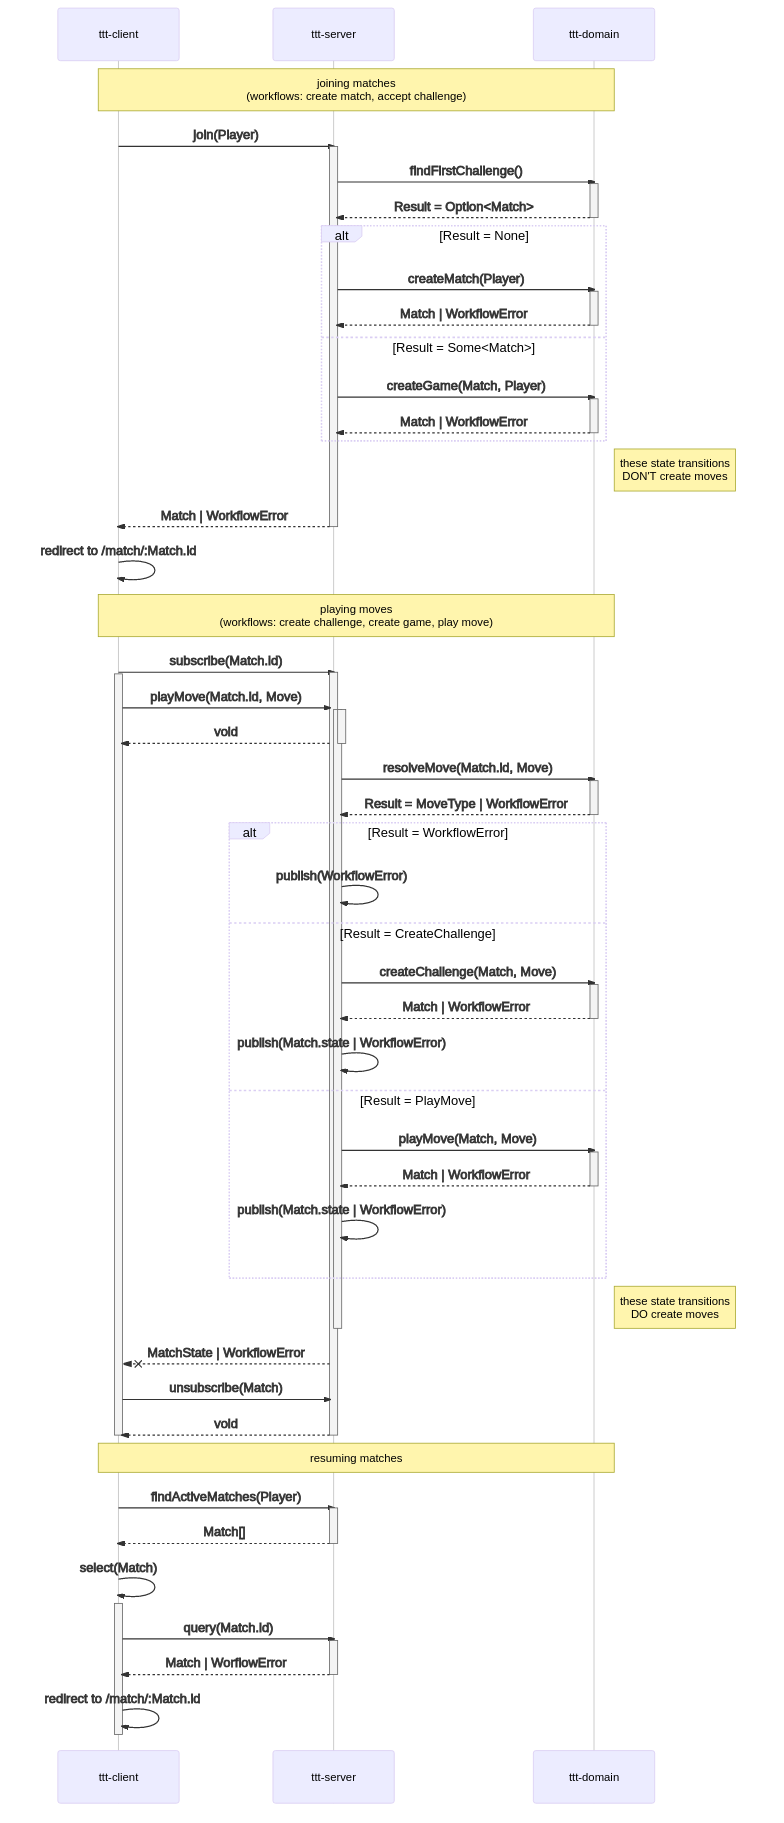
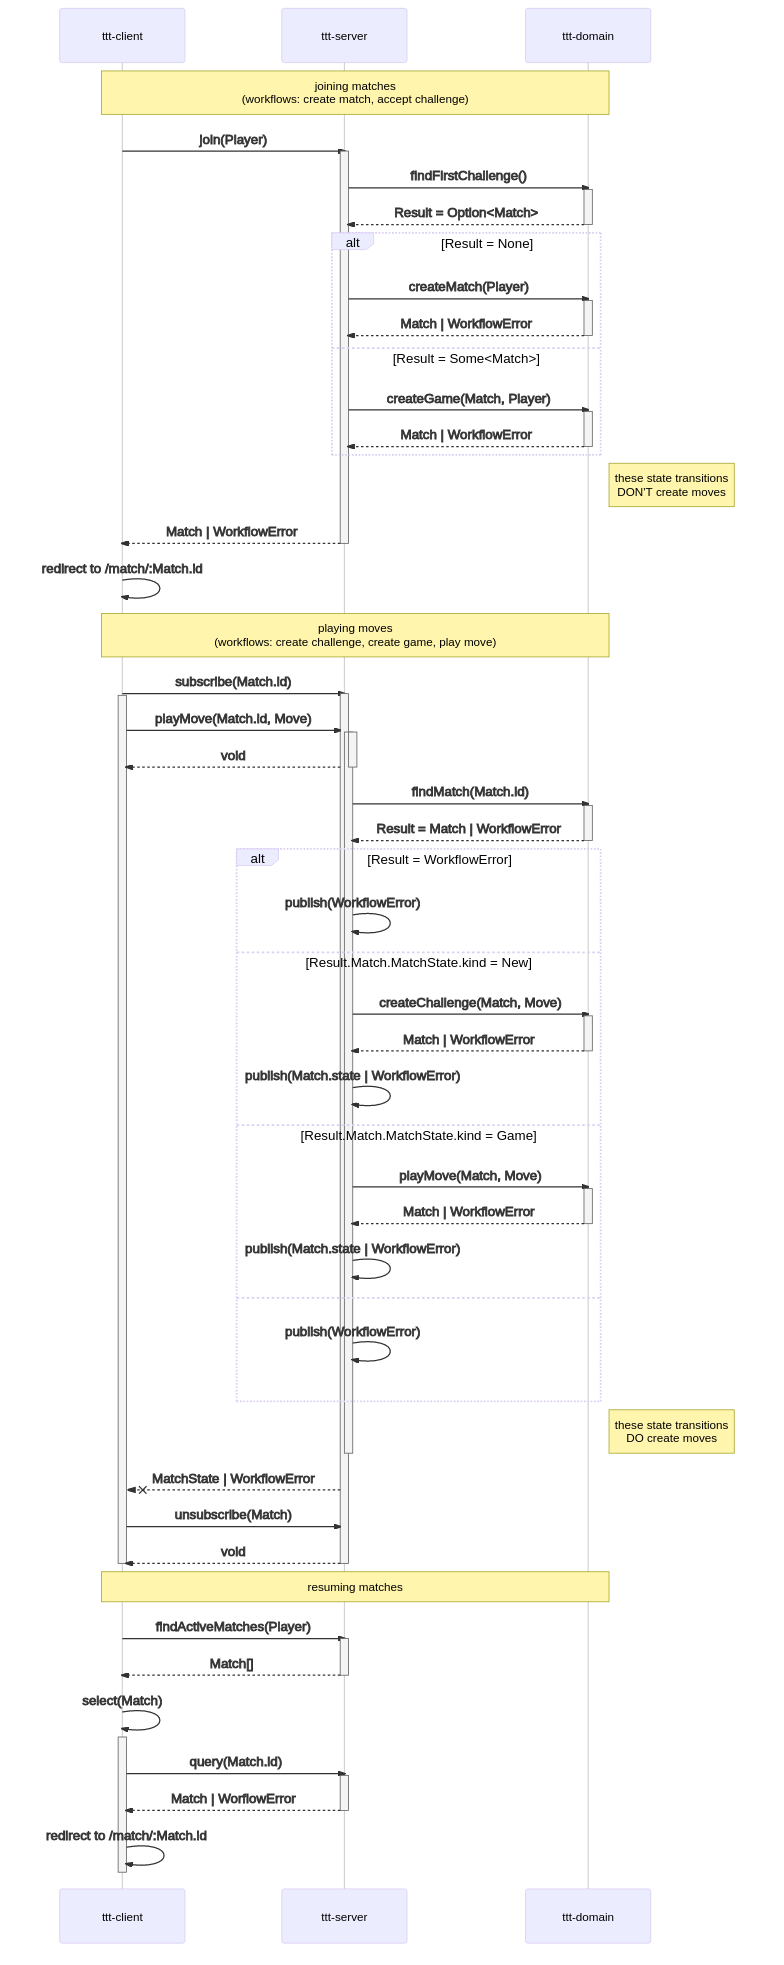
write play move command tests

Changed region(s): [[0.0612, 0.0, 0.949, 0.983], [0.398, 0.9523, 0.4592, 0.983], [0.3061, 0.4301, 0.3367, 0.4608]]

diff --git a/ttt-domain/src/command/play-move-command-handler.test.ts b/ttt-domain/src/command/play-move-command-handler.test.ts
@@ -1,0 +1,115 @@
+import { failure, Result, success } from "@grancalavera/ttt-etc/dist/result";
+import { DomainError, IllegalMatchStateError, MatchNotFoundError } from "../domain/error";
+import { Game, Match, MatchDescription } from "../domain/model";
+import {
+  alice,
+  bob,
+  CommandScenario,
+  matchId,
+  mockCommandDependencies,
+} from "../test/support";
+import { CreateChallenge, PlayMove, WorkflowInput } from "../workflow/support";
+import { playMoveCommandHandler } from "./play-move-command-handler";
+import { PlayMoveCommand } from "./support";
+
+const spyOnFindMatch = jest.fn();
+const mock = mockCommandDependencies({ spyOnFindMatch });
+const matchDescription: MatchDescription = { owner: alice, id: matchId };
+
+const newMatch: Match = {
+  matchDescription,
+  matchState: { kind: "New" },
+};
+
+const gameMatchState: Game = {
+  kind: "Game",
+  players: [alice, bob],
+  moves: [[alice, 0]],
+  next: bob,
+};
+
+const gameMatch: Match = {
+  matchDescription,
+  matchState: gameMatchState,
+};
+
+const challengeMatch: Match = {
+  matchDescription,
+  matchState: { kind: "Challenge", move: [alice, 0] },
+};
+
+const drawMatch: Match = {
+  matchDescription,
+  matchState: { kind: "Draw", players: [alice, bob], moves: [[alice, 0]] },
+};
+
+const victoryMatch: Match = {
+  matchDescription,
+  matchState: {
+    kind: "Victory",
+    players: [alice, bob],
+    moves: [[alice, 0]],
+    winner: [alice, []],
+  },
+};
+
+const scenarios: CommandScenario<PlayMoveCommand>[] = [
+  {
+    name: "match not found",
+    handleCommand: playMoveCommandHandler(mock()),
+    command: new PlayMoveCommand({ matchId, move: [alice, 1] }),
+    expected: failure([new MatchNotFoundError(matchId)]),
+  },
+  {
+    name: "illegal match state: Challenge",
+    handleCommand: playMoveCommandHandler(mock({ matchToFind: challengeMatch })),
+    command: new PlayMoveCommand({ matchId, move: [bob, 1] }),
+    expected: failure([new IllegalMatchStateError(challengeMatch, ["New", "Game"])]),
+  },
+  {
+    name: "illegal match state: Draw",
+    handleCommand: playMoveCommandHandler(mock({ matchToFind: drawMatch })),
+    command: new PlayMoveCommand({ matchId, move: [bob, 1] }),
+    expected: failure([new IllegalMatchStateError(drawMatch, ["New", "Game"])]),
+  },
+  {
+    name: "illegal match state: Victory",
+    handleCommand: playMoveCommandHandler(mock({ matchToFind: victoryMatch })),
+    command: new PlayMoveCommand({ matchId, move: [bob, 1] }),
+    expected: failure([new IllegalMatchStateError(victoryMatch, ["New", "Game"])]),
+  },
+  {
+    name: "create challenge",
+    handleCommand: playMoveCommandHandler(mock({ matchToFind: newMatch })),
+    command: new PlayMoveCommand({ matchId, move: [alice, 0] }),
+    expected: success(new CreateChallenge({ matchDescription, move: [alice, 0] })),
+  },
+  {
+    name: "play move",
+    handleCommand: playMoveCommandHandler(mock({ matchToFind: gameMatch })),
+    command: new PlayMoveCommand({ matchId, move: [bob, 1] }),
+    expected: success(
+      new PlayMove({ matchDescription, game: gameMatchState, move: [bob, 1] })
+    ),
+  },
+];
+
+describe.each(scenarios)("play move command handler", (scenario) => {
+  const { name, handleCommand, command, expected } = scenario;
+  let actual: Result<WorkflowInput, DomainError[]>;
+
+  beforeEach(async () => {
+    spyOnFindMatch.mockClear();
+    actual = await handleCommand(command);
+  });
+
+  describe(name, () => {
+    it("command", () => {
+      expect(actual).toEqual(expected);
+    });
+
+    it("side effects", () => {
+      expect(spyOnFindMatch).toHaveBeenCalledTimes(1);
+    });
+  });
+});

diff --git a/ttt-domain/src/command/join-game-command-handler.test.ts b/ttt-domain/src/command/join-game-command-handler.test.ts
@@ -1,4 +1,4 @@
-import { success, Result } from "@grancalavera/ttt-etc";
+import { success, Result, failure, isSuccess } from "@grancalavera/ttt-etc";
 import { Challenge, MatchDescription } from "../domain/model";
 import {
   alice,
@@ -10,15 +10,21 @@ import {
 import { CreateGame, CreateMatch, WorkflowInput } from "../workflow/support";
 import { joinGameCommandHandler } from "./join-game-command-handler";
 import { JoinGameCommand } from "./support";
-import { DomainError } from "../domain/error";
+import {
+  DomainError,
+  TooManyActiveMatchesError,
+  includesErrorOfKind,
+} from "../domain/error";
 
 const spyOnFindFirstChallenge = jest.fn();
+const spyOnCountActiveMatches = jest.fn();
 
 const matchDescription: MatchDescription = { id: matchId, owner: alice };
 const challenge: Challenge = { kind: "Challenge", move: [alice, 0] };
 
 const mock = mockCommandDependencies({
   spyOnFindFirstChallenge,
+  spyOnCountActiveMatches,
 });
 
 const scenarios: CommandScenario<JoinGameCommand>[] = [
@@ -36,6 +42,26 @@ const scenarios: CommandScenario<JoinGameCommand>[] = [
     command: new JoinGameCommand({ player: bob }),
     expected: success(new CreateGame({ matchDescription, challenge, opponent: bob })),
   },
+  {
+    name: "no challenges found: too many active matches",
+    handleCommand: joinGameCommandHandler(
+      mock({ activeMatches: 1, maxActiveMatches: 1 })
+    ),
+    command: new JoinGameCommand({ player: bob }),
+    expected: failure([new TooManyActiveMatchesError(bob, 1)]),
+  },
+  {
+    name: "challenge found, too many active matches",
+    handleCommand: joinGameCommandHandler(
+      mock({
+        firstChallengeToFind: [matchDescription, challenge],
+        activeMatches: 1,
+        maxActiveMatches: 1,
+      })
+    ),
+    command: new JoinGameCommand({ player: bob }),
+    expected: failure([new TooManyActiveMatchesError(bob, 1)]),
+  },
 ];
 
 describe.each(scenarios)("join game command handler", (scenario) => {
@@ -44,6 +70,7 @@ describe.each(scenarios)("join game command handler", (scenario) => {
 
   beforeEach(async () => {
     spyOnFindFirstChallenge.mockClear();
+    spyOnCountActiveMatches.mockClear();
     actual = await handleCommand(command);
   });
 
@@ -53,7 +80,18 @@ describe.each(scenarios)("join game command handler", (scenario) => {
     });
 
     it("side effects", () => {
-      expect(spyOnFindFirstChallenge).toHaveBeenCalledTimes(1);
+      expect(spyOnCountActiveMatches).toHaveBeenCalledTimes(1);
+
+      if (isSuccess(expected)) {
+        expect(spyOnFindFirstChallenge).toHaveBeenCalledTimes(1);
+      } else {
+        const includesErrorKind = includesErrorOfKind(expected.error);
+        if (includesErrorKind("TooManyActiveMatchesError")) {
+          expect(spyOnFindFirstChallenge).not.toHaveBeenCalled();
+        } else {
+          expect(spyOnFindFirstChallenge).toHaveBeenCalledTimes(1);
+        }
+      }
     });
   });
 });

diff --git a/ttt-domain/src/command/support.ts b/ttt-domain/src/command/support.ts
@@ -1,14 +1,15 @@
 import { AsyncResult } from "@grancalavera/ttt-etc";
 import { DomainError } from "../domain/error";
 import {
+  Challenge,
   Match,
+  MatchDescription,
   MatchId,
   Move,
   Player,
-  MatchDescription,
-  Challenge,
 } from "../domain/model";
-import { AsyncDomainResult, DomainResult } from "../domain/result";
+import { AsyncDomainResult } from "../domain/result";
+import { GameSettings } from "../system/support";
 import { WorkflowInput } from "../workflow/support";
 
 // ----------------------------------------------------------------------------
@@ -34,7 +35,7 @@ export interface PlayMove {
 // ----------------------------------------------------------------------------
 
 export type JoinGameCommandHandler = CommandHandler<
-  CountActiveMatches & FindFirstChallenge,
+  CountActiveMatches & FindFirstChallenge & GameSettings,
   JoinGameCommand
 >;
 
@@ -46,6 +47,10 @@ export class JoinGameCommand {
 export interface JoinGameInput {
   readonly player: Player;
 }
+
+export type CountActiveMatches = {
+  countActiveMatches: (player: Player) => Promise<number>;
+};
 
 export interface FindFirstChallenge {
   readonly findFirstChallenge: () => AsyncResult<
@@ -75,16 +80,6 @@ export interface PlayMoveInput {
 export interface FindMatch {
   readonly findMatch: (matchId: MatchId) => AsyncResult<Match, DomainError>;
 }
-
-// ----------------------------------------------------------------------------
-//
-// shared dependencies
-//
-// ----------------------------------------------------------------------------
-
-export type CountActiveMatches = {
-  countActiveMatches: (player: Player) => Promise<number>;
-};
 
 // ----------------------------------------------------------------------------
 //

diff --git a/ttt-domain/src/command/play-move-command-handler.ts b/ttt-domain/src/command/play-move-command-handler.ts
@@ -2,6 +2,7 @@ import { failure, isFailure, success } from "@grancalavera/ttt-etc";
 import { IllegalMatchStateError } from "../domain/error";
 import { domainFailure } from "../domain/result";
 import { PlayMoveCommandHandler } from "./support";
+import { PlayMove } from "../workflow/support";
 
 export const playMoveCommandHandler: PlayMoveCommandHandler = (dependencies) => async (
   command
@@ -16,7 +17,7 @@ export const playMoveCommandHandler: PlayMoveCommandHandler = (dependencies) => 
   const match = findResult.value;
   const { matchDescription, matchState } = match;
 
-  if (matchState.kind === "Challenge") {
+  if (matchState.kind === "New") {
     return success({
       kind: "CreateChallenge",
       input: { matchDescription, move },
@@ -24,11 +25,8 @@ export const playMoveCommandHandler: PlayMoveCommandHandler = (dependencies) => 
   }
 
   if (matchState.kind === "Game") {
-    return success({
-      kind: "PlayMove",
-      input: { matchDescription, move, game: matchState },
-    });
+    return success(new PlayMove({ matchDescription, game: matchState, move }));
   }
 
-  return failure([new IllegalMatchStateError(match, ["Challenge", "Game"])]);
+  return failure([new IllegalMatchStateError(match, ["New", "Game"])]);
 };

diff --git a/ttt-domain/src/test/support.ts b/ttt-domain/src/test/support.ts
@@ -64,6 +64,7 @@ interface WorkflowMocks {
 interface CommandSpies {
   readonly spyOnFindFirstChallenge?: jest.Mock;
   readonly spyOnFindMatch?: jest.Mock;
+  readonly spyOnCountActiveMatches?: jest.Mock;
 }
 
 interface CommandMocks {
@@ -94,12 +95,15 @@ export const mockWorkflowDependencies = (spies: WorkflowSpies) => (
 export const mockCommandDependencies = (spies: CommandSpies) => (
   mocks: SystemMocks & CommandMocks = {}
 ): SystemDependencies & CommandDependencies => {
-  const { spyOnFindFirstChallenge, spyOnFindMatch } = spies;
+  const { spyOnFindFirstChallenge, spyOnFindMatch, spyOnCountActiveMatches } = spies;
 
   return {
     ...mockSystemDependencies(mocks),
 
-    countActiveMatches: async () => mocks.activeMatches ?? 0,
+    countActiveMatches: async () => {
+      spyOnCountActiveMatches && spyOnCountActiveMatches();
+      return mocks.activeMatches ?? 0;
+    },
 
     findFirstChallenge: async () => {
       spyOnFindFirstChallenge && spyOnFindFirstChallenge();

diff --git a/ttt-domain/src/command/join-game-command-handler.ts b/ttt-domain/src/command/join-game-command-handler.ts
@@ -1,11 +1,21 @@
-import { isSuccess, success } from "@grancalavera/ttt-etc";
+import { failure, isSuccess, success } from "@grancalavera/ttt-etc";
+import { TooManyActiveMatchesError } from "../domain/error";
 import { CreateGame, CreateMatch, WorkflowInput } from "../workflow/support";
 import { JoinGameCommandHandler } from "./support";
 
 export const joinGameCommandHandler: JoinGameCommandHandler = (dependencies) => async (
   command
 ) => {
-  const findResult = await dependencies.findFirstChallenge();
+  const { findFirstChallenge, countActiveMatches, maxActiveMatches } = dependencies;
+
+  const activeMatches = await countActiveMatches(command.input.player);
+  if (maxActiveMatches <= activeMatches) {
+    return failure([
+      new TooManyActiveMatchesError(command.input.player, maxActiveMatches),
+    ]);
+  }
+
+  const findResult = await findFirstChallenge();
 
   if (isSuccess(findResult)) {
     const [matchDescription, challenge] = findResult.value;

diff --git a/ttt-domain/src/workflow/support.ts b/ttt-domain/src/workflow/support.ts
@@ -1,8 +1,8 @@
 import { AsyncResult } from "@grancalavera/ttt-etc";
 import { DomainError } from "../domain/error";
 import { Challenge, Game, Match, MatchDescription, Move, Player } from "../domain/model";
+import { AsyncDomainResult } from "../domain/result";
 import { GameSettings } from "../system/support";
-import { DomainResult, AsyncDomainResult } from "../domain/result";
 
 // ----------------------------------------------------------------------------
 //
